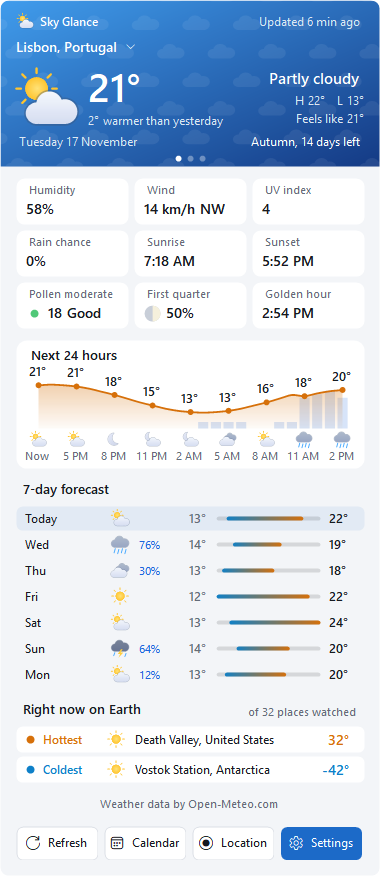
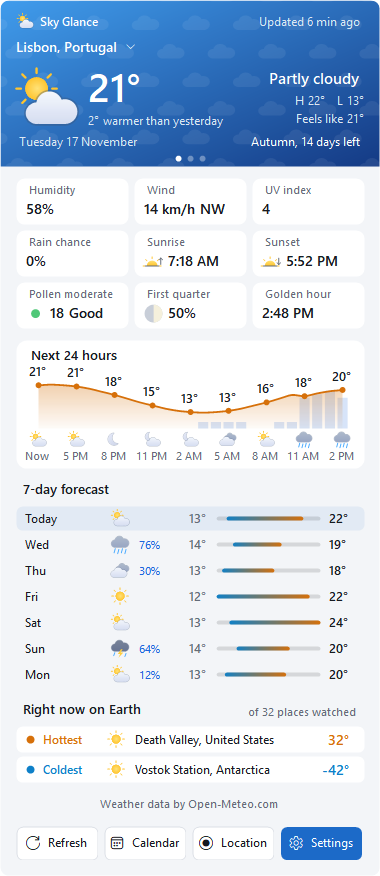
Sunrise and sunset pictures on their flyout tiles

diff --git a/src/SkyGlance/UI/Styling/Art.cs b/src/SkyGlance/UI/Styling/Art.cs
@@ -450,6 +450,44 @@ static class Art
         g.Restore(st);
     }
 
+    /// <summary>
+    /// A sun half over the horizon with a small arrow beside it, up for sunrise and down for sunset,
+    /// for the flyout's sunrise and sunset tiles.
+    /// </summary>
+    public static void SunHorizon(Graphics g, RectangleF box, bool rising, Color line)
+    {
+        var st = g.Save();
+        g.SmoothingMode = SmoothingMode.AntiAlias;
+        float n = Math.Min(box.Width, box.Height);
+        float x = box.X + (box.Width - n) / 2, y = box.Y + (box.Height - n) / 2;
+        float cx = x + n * 0.42f, hy = y + n * 0.74f, r = n * 0.3f;
+        // Short rays, then the half disc clipped at the horizon, then the horizon line.
+        using (var pen = new Pen(Sun, Math.Max(1f, n * 0.08f)) { StartCap = LineCap.Round, EndCap = LineCap.Round })
+            foreach (int deg in new[] { 180, 225, 270, 315, 360 })
+            {
+                double a = deg * Math.PI / 180;
+                float cos = (float)Math.Cos(a), sin = (float)Math.Sin(a);
+                g.DrawLine(pen, cx + cos * r * 1.35f, hy + sin * r * 1.35f, cx + cos * r * 1.7f, hy + sin * r * 1.7f);
+            }
+        using (var half = new GraphicsPath())
+        {
+            half.AddPie(cx - r, hy - r, r * 2, r * 2, 180, 180);
+            using var b = new LinearGradientBrush(new RectangleF(cx - r, hy - r, r * 2, r), SunCore, Sun, LinearGradientMode.Vertical);
+            g.FillPath(b, half);
+        }
+        using (var pen = new Pen(line, Math.Max(1f, n * 0.08f)) { StartCap = LineCap.Round, EndCap = LineCap.Round })
+        {
+            g.DrawLine(pen, x + n * 0.04f, hy, x + n * 0.8f, hy);
+            // The arrow, on the far right: up for sunrise, down for sunset.
+            float ax = x + n * 0.9f, top = y + n * 0.3f, bottom = y + n * 0.66f, head = n * 0.1f;
+            g.DrawLine(pen, ax, top, ax, bottom);
+            float tip = rising ? top : bottom, back = rising ? tip + head : tip - head;
+            g.DrawLine(pen, ax, tip, ax - head, back);
+            g.DrawLine(pen, ax, tip, ax + head, back);
+        }
+        g.Restore(st);
+    }
+
     /// <summary>The brand mark: a sun peeking out behind a cloud.</summary>
     public static void Mark(Graphics g, RectangleF box) => Weather(g, box, SkyIcon.PartlyCloudy, true);
 }

diff --git a/src/SkyGlance/UI/Flyout/WeatherFlyout.cs b/src/SkyGlance/UI/Flyout/WeatherFlyout.cs
@@ -473,8 +473,8 @@ sealed class WeatherFlyout : Form
             (L.T("RainChance"), c.PrecipitationMm > 0
                 ? [UnitFormat.Percent(chance), UnitFormat.Precipitation(c.PrecipitationMm, app.S.Precipitation)]
                 : [UnitFormat.Percent(chance)], null),
-            (L.T("Sunrise"), [Sun(today?.Sunrise)], null),
-            (L.T("Sunset"), [Sun(today?.Sunset)], null),
+            (L.T("Sunrise"), [Sun(today?.Sunrise)], (gr, box) => Art.SunHorizon(gr, box, true, t.Dim)),
+            (L.T("Sunset"), [Sun(today?.Sunset)], (gr, box) => Art.SunHorizon(gr, box, false, t.Dim)),
         };
         double lat = app.ActivePlace?.Latitude ?? f.Latitude, lon = app.ActivePlace?.Longitude ?? f.Longitude;
         if (app.S.ShowAirQuality)
@@ -520,7 +520,7 @@ sealed class WeatherFlyout : Form
             if (tiles[i].picture is { } draw)
             {
                 // A small picture on the reading side of the value: the moon, or the air quality colour.
-                int ps = Px(16);
+                int ps = Px(18);
                 var box = new RectangleF(Rtl ? valueR.Right - ps : valueR.X, valueR.Y + (valueR.Height - ps) / 2f, ps, ps);
                 draw(g, box);
                 valueR = Rtl ? new Rectangle(valueR.X, valueR.Y, valueR.Width - ps - Px(6), valueR.Height)

diff --git a/CHANGELOG.md b/CHANGELOG.md
@@ -7,6 +7,7 @@ The format follows [Keep a Changelog](https://keepachangelog.com/en/1.1.0/) and 
 
 ### Added
 - A sky for every weather behind the widget: blue with a warm glow on a sunny day, deep blue with stars at night, slate with rain streaks, icy blue with snowflakes, misty grey for fog and violet for a storm, with white text. With animation on, the rain, snow and stars move and the clouds drift. On by default; Settings can bring back the plain style.
+- The sunrise and sunset tiles in the flyout have a picture: the sun half over the horizon, with an arrow up or down.
 
 ## [1.3.2] - 2026-11-17
 
